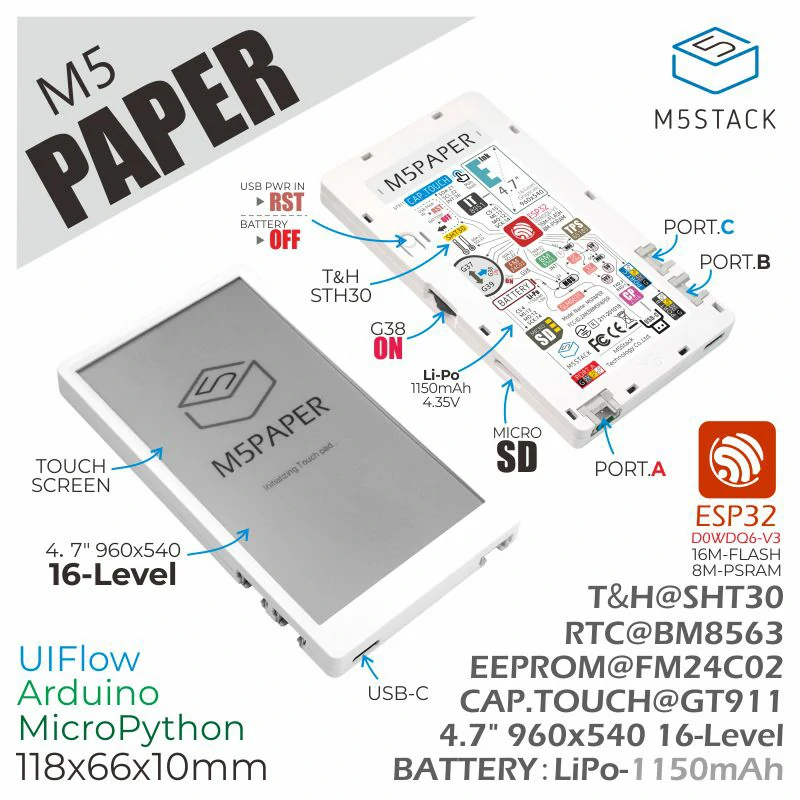
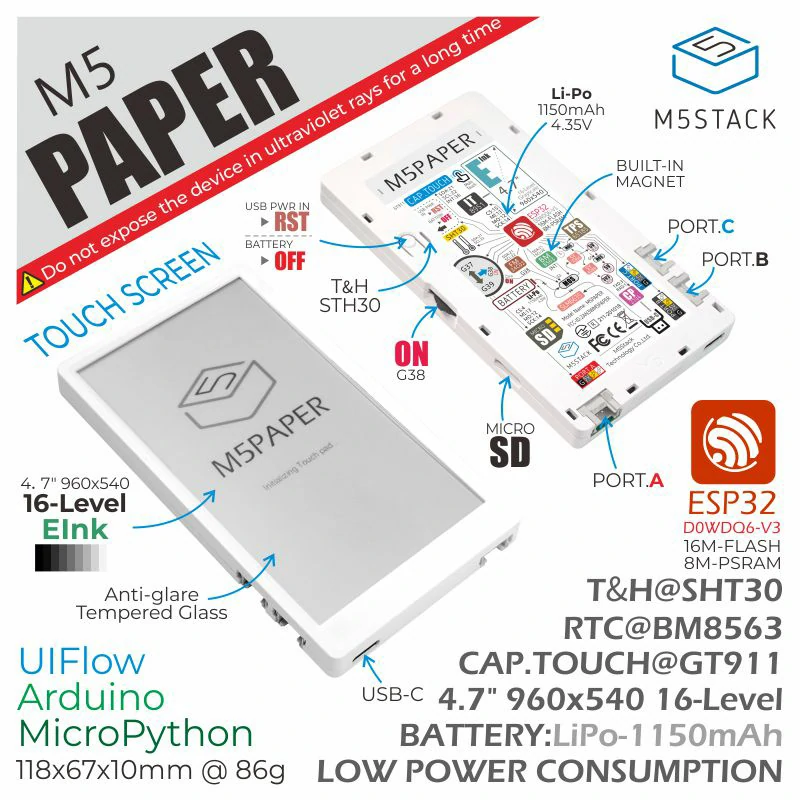
fix pbhub some mistake info

diff --git a/docs/en/unit/pbhub.md b/docs/en/unit/pbhub.md
@@ -17,13 +17,9 @@ Similar to the PaHub Unit, the PbHub provides solution for multiple devices cont
 <img src="assets/img/product_pics/unit/pbhub/pbhub_p3.webp" width="30%" height="30%">
 <br>
 
-*Notice2: Not all M5 Units with PortB (Black) are able to be extended by PbHUB. PbHUB can only apply to basic single-bus communication like digital read and write, analog read and write, which is implemented by I2C protocol (controlled by the MEGA328 MCU).<br>
+**Notice2: Not all M5 Units with PortB (Black) are able to be extended by PbHUB. PbHUB can only apply to basic single-bus communication like digital read and write, analog read and write, which is implemented by I2C protocol (controlled by the MEGA328 MCU).**
 
-The PbHub extension mechanism that allows it to control IO using a single-bus data transfer wires is embedded inside the Mega328 with pre-programmed functionalities such as: GPIO, AD and DA to enable digital read and write and analog read and write features. In this case, the PbHub is sometimes not necessary for applications that doesn't require such specific features or require features outside of the scope of the IO pins both for analog and digital IO. For example, if some project requires PWM functionalities - the PbHub won't be useful for such application as there is no support for PWM.*
-
-See the below picture for timing sequence of HX711:
-<br>
-<img src="assets/img/product_pics/unit/pbhub/unit_pbhub_notice_01.webp" width="60%" height="60%">
+**The PbHub extension mechanism that allows it to control IO using a single-bus data transfer wires is embedded inside the Mega328 with pre-programmed functionalities such as: GPIO, AD and DA to enable digital read and write and analog read and write features. In this case, the PbHub is sometimes not necessary for applications that doesn't require such specific features or require features outside of the scope of the IO pins both for analog and digital IO. For example, if some project requires PWM functionalities - the PbHub won't be useful for such application as there is no support for PWM.**
 
 ## Product Features
 
@@ -64,7 +60,7 @@ See the below picture for timing sequence of HX711:
 
 ## Change I2C Address
 
-The Default I2C address of the unit is 0x40 (which can be changed by using solder resistors A0 ~ A2, the address range is 0x40~0x47).
+The Default I2C address of the unit is 0x61 (which can be changed by using solder resistors A0 ~ A2, the address range is 0x61~0x68).
 
 <img src="assets/img/product_pics/unit/pbhub/pbhub_i2c_addr.webp" width="300px">
 
@@ -79,49 +75,49 @@ The Default I2C address of the unit is 0x40 (which can be changed by using solde
       <td>/</td>
       <td>/</td>
       <td>/</td>
-      <td>0x40</td>
+      <td>0x61</td>
    </tr>
    <tr>
       <td>Resistors</td>
       <td>/</td>
       <td>/</td>
-      <td>0x41</td>
+      <td>0x62</td>
    </tr>
    <tr>
       <td>/</td>
       <td>Resistors</td>
       <td>/</td>
-      <td>0x42</td>
+      <td>0x63</td>
    </tr>
    <tr>
       <td>Resistors</td>
       <td>Resistors</td>
       <td>/</td>
-      <td>0x43</td>
+      <td>0x64</td>
    </tr>
    <tr>
       <td>/</td>
       <td>/</td>
       <td>Resistors</td>
-      <td>0x44</td>
+      <td>0x65</td>
    </tr>
    <tr>
       <td>Resistors</td>
       <td>/</td>
       <td>Resistors</td>
-      <td>0x45</td>
+      <td>0x66</td>
    </tr>
    <tr>
       <td>/</td>
       <td>Resistors</td>
       <td>Resistors</td>
-      <td>0x46</td>
+      <td>0x67</td>
    </tr>
    <tr>
       <td>Resistors</td>
       <td>Resistors</td>
       <td>Resistors</td>
-      <td>0x47</td>
+      <td>0x68</td>
    </tr>
  </table>
 

diff --git a/docs/zh_CN/README.md b/docs/zh_CN/README.md
@@ -10,7 +10,7 @@
       {a:"/#/zh_CN/core/m5go_lite", img:"https://static-cdn.m5stack.com/image/m5-docs_homepage/core/kit_m5go_lite_01.webp", p:"M5GO Lite", sku:"K022", qs:"#zh_CN/quick_start/m5core/m5stack_core_quick_start"  ,kw:"ESP32 IP5306 MPU6886 BMM150 LEGO"},
       {a:"/#/zh_CN/core/m5go", img:"https://static-cdn.m5stack.com/image/m5-docs_homepage/core/kit_m5go_01.webp", p:"M5GO Kit", sku:"K006", qs:"#zh_CN/quick_start/m5core/m5stack_core_quick_start"  ,kw:"ESP32 IP5306 MPU6886 BMM150 LEGO MICPHONE"},
       {a:"/#/zh_CN/core/coreink", img:"https://static-cdn.m5stack.com/image/m5-docs_homepage/core/coreink_01.webp", p:"CoreInk", sku:"K048", qs:"#zh_CN/quick_start/coreink/quick_start_arduino"  ,kw:"ESP32 E-Ink"},
-      {a:"/#/zh_CN/core/m5paper", img:"https://static-cdn.m5stack.com/image/m5-docs_homepage/core/m5paper_01.webp", p:"MM5paper", sku:"K049", qs:"#zh_CN/quick_start/m5paper/quick_start_arduino"  ,kw:"ESP32 E-Ink SHT30"},
+      {a:"/#/zh_CN/core/m5paper", img:"https://static-cdn.m5stack.com/image/m5-docs_homepage/core/m5paper_01.webp", p:"M5paper", sku:"K049", qs:"#zh_CN/quick_start/m5paper/quick_start_arduino"  ,kw:"ESP32 E-Ink SHT30"},
     ];
     const face_list = [
       //FACES Series

diff --git a/docs/zh_CN/core/m5paper.md b/docs/zh_CN/core/m5paper.md
@@ -14,6 +14,8 @@
 
 **M5Paper** 是M5Stack推出的一款可触控墨水屏主控设备，控制器采用ESP32-D0WD。正面嵌入了一块分辨率为540*960 @4.7"的电子墨水屏，支持16级灰度显示。搭配GT911电容式触控面板，支持两点触控与多种手势操作。相对于普通的LCD的屏幕，电子墨水屏能够提供用户更好的文本阅读体验， 同时具有低功耗，掉电图像保持等特性。 集成拨轮开关, SHT30温湿度传感器, 与物理按键。 数据储存方面预留了TF-card(microSD)接口，并集成了FM24C02储存芯片(256KB-EEPROM)用于用户数据的断电存储。内置了1150mAh锂电池，结合内部的RTC(BM8563)可实现休眠与唤醒功能，能够为设备提供强大的续航能力。开放了3组HY2.0-4P外设接口能够拓展各式各样的传感器设备，为后续的应用功能开发提供无限可能。
 
+?>注意事项: 请勿长时间暴露在紫外线下, 否则有可能对墨水屏造成不可逆的损害。
+
 ## 产品特性
 
 - 内嵌ESP32，支持WiFi、蓝牙

diff --git a/docs/en/core/m5paper.md b/docs/en/core/m5paper.md
@@ -16,6 +16,8 @@ Choose the development platform you want to use, view the corresponding tutorial
 
 Additionally the FM24C02 internal eeprom chip(256KB-EEPROM)can be used to store vital data even when the device is off. A 1150mAh lipo battery keeps the device going for long periods and battery life can be further preserved by using the RTC(BM8563)to set the device into deep sleep and wake it up again when needed。Three HY2.0-4P expansion ports are included which allow for building complex projects using the existing sensors in the M5Stack ecosystem.
 
+?>Warning: Do not expose to ultraviolet rays for a long time, otherwise it may cause irreversible damage to the E-ink screen.
+
 ## Product Features
 
 - ESP32 Standard wireless functions WiFi、Bluetooth
